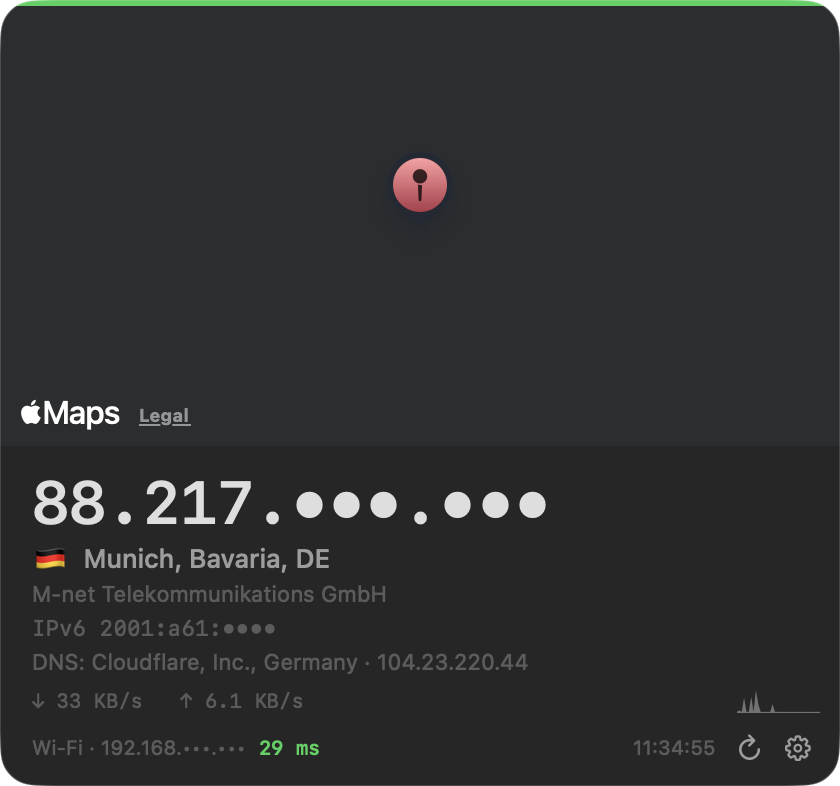
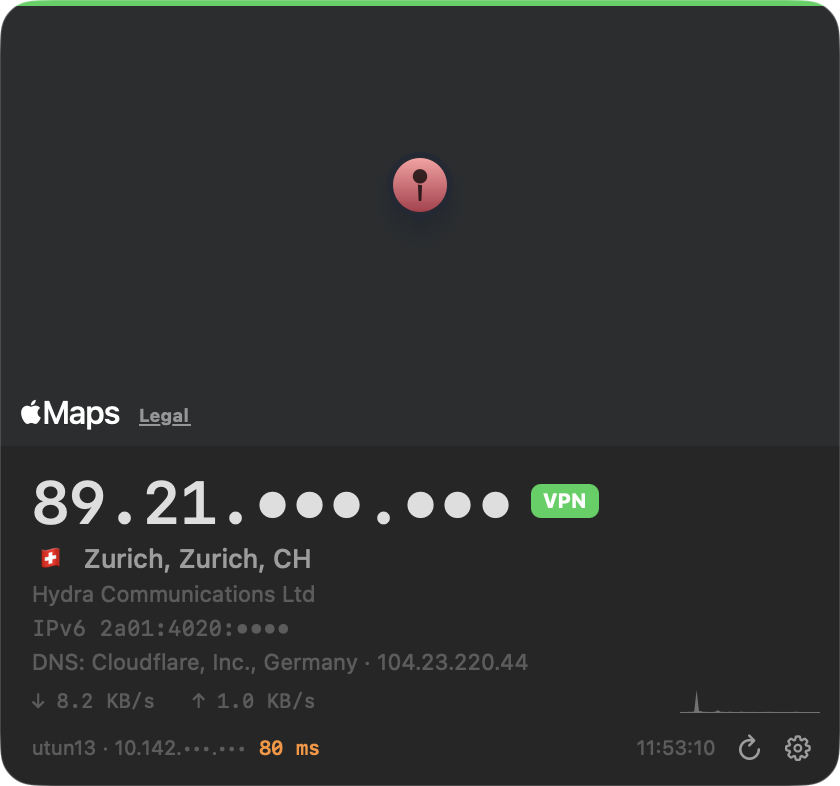
Add GitHub Actions CI and a VPN screenshot
CI builds both variants on macos-15: the swiftc bundle through
build.sh in a new IPW_BUILD_ONLY mode (stops after signing, no install
or launchd), and the App Store target through xcodegen + xcodebuild
with code signing disabled. The README screenshot is retaken behind a
VPN with IP masking on.

diff --git a/README.md b/README.md
@@ -1,5 +1,7 @@
 # IP Widget
 
+[![CI](https://github.com/wansiedler/ipwidget/actions/workflows/ci.yml/badge.svg)](https://github.com/wansiedler/ipwidget/actions/workflows/ci.yml)
+
 A native macOS desktop widget that shows your public IP, its location on a live Apple Maps view,
 your ISP, VPN state, DNS-leak verdict, latency and throughput — pinned to the desktop layer,
 on every Space, with a menu bar item.
